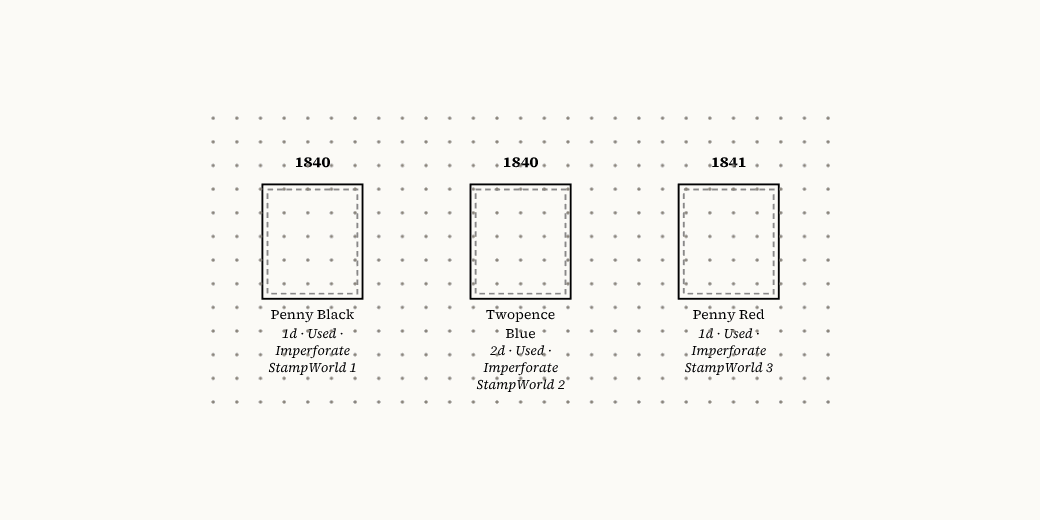
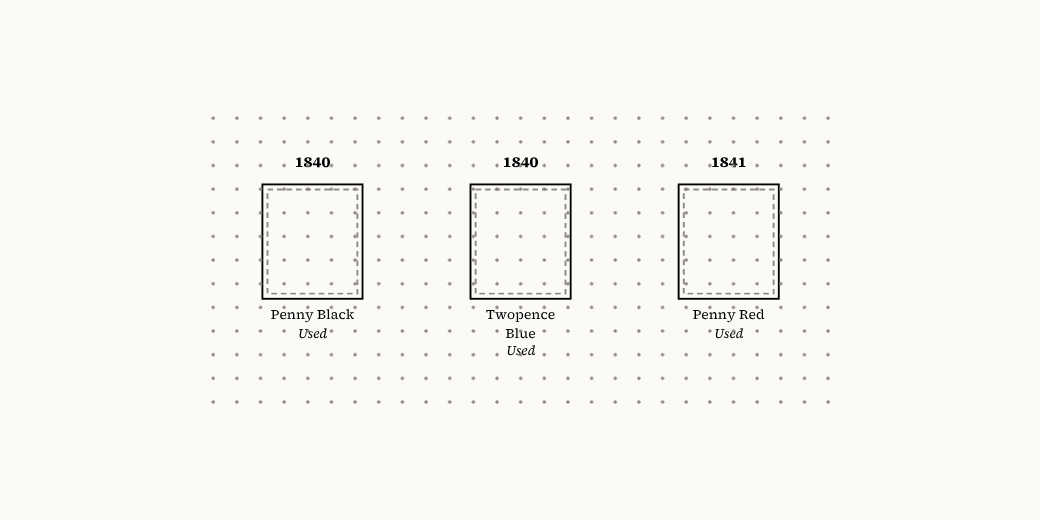
Remove StampWorld's catalogue numbers from shipped content
The first-run sample page, the Single stamp template, the sample DSL file
and the DSL spec example carried StampWorld's numbers (Great Britain 1 to
3), copied without permission. The app now ships no catalogue's numbering.

The sample page's captions give the year, the stamp's name and its
condition only: the stamp shows its value, and an imperforate stamp has
no perforation to note. The Single stamp template uses the "Cat. no."
placeholder like the other templates.

test_no_copied_catalogue_data.py fails if StampWorld text returns to
src/stamp_album, assets, docs or the README. Test strings that used it
are neutral. Tutorial pictures and the README screenshot regenerated.

Claude-Session: https://claude.ai/code/session_01Uyz6paeX6G4EPcZbvq9yCz

Changed region(s): [[0.4615, 0.6462, 0.5538, 0.7692], [0.6462, 0.6154, 0.7385, 0.7385], [0.2462, 0.6154, 0.3385, 0.7385]]

diff --git a/src/stamp_album/web/tutorial.js b/src/stamp_album/web/tutorial.js
@@ -26,7 +26,8 @@ function showTutorial() {
 
 // Auto-load a sample album so the canvas isn't empty: an exhibition-style page with three
 // stamps at their size (3/4 x 7/8 inch, 19 x 22 mm), so their frames show the 1 mm clearance.
-// Numbers and dates are StampWorld's (Great Britain 1 to 3).
+// Captions give only the year, the stamp's name and its condition: the stamp shows its value,
+// and no catalogue's numbering is copied into the app.
 // The screenshot script (tools/screenshots.py) uses the same page.
 var SAMPLE_DSL = [
     'ALBUM_PAGES_BORDER(0.5 0 0 1)',
@@ -40,15 +41,15 @@ var SAMPLE_DSL = [
     'PAGE_TEXT_AT(20.0 18.0 170.0 12.0 "HB" 16 "Great Britain: The First Stamps" "center")',
     'PAGE_TEXT_ROLE("heading")',
     'PAGE_TEXT_AT(20.0 31.0 170.0 8.0 "HN" 10 "Line-engraved issues, 1840 to 1841" "center")',
-    'STAMP_ADD_AT(51.5 55.0 19.0 22.0 "Penny Black" "StampWorld 1" "" "" rectangle "solid" "#000000" 0.5 "#ffffff" 100)',
+    'STAMP_ADD_AT(51.5 55.0 19.0 22.0 "Penny Black" "" "" "" rectangle "solid" "#000000" 0.5 "#ffffff" 100)',
     'STAMP_HEADING("HN" 9 "1840")',
-    'STAMP_DETAILS("1d" "Used" "Imperforate")',
-    'STAMP_ADD_AT(95.5 55.0 19.0 22.0 "Twopence Blue" "StampWorld 2" "" "" rectangle "solid" "#000000" 0.5 "#ffffff" 100)',
+    'STAMP_DETAILS("" "Used" "")',
+    'STAMP_ADD_AT(95.5 55.0 19.0 22.0 "Twopence Blue" "" "" "" rectangle "solid" "#000000" 0.5 "#ffffff" 100)',
     'STAMP_HEADING("HN" 9 "1840")',
-    'STAMP_DETAILS("2d" "Used" "Imperforate")',
-    'STAMP_ADD_AT(139.5 55.0 19.0 22.0 "Penny Red" "StampWorld 3" "" "" rectangle "solid" "#000000" 0.5 "#ffffff" 100)',
+    'STAMP_DETAILS("" "Used" "")',
+    'STAMP_ADD_AT(139.5 55.0 19.0 22.0 "Penny Red" "" "" "" rectangle "solid" "#000000" 0.5 "#ffffff" 100)',
     'STAMP_HEADING("HN" 9 "1841")',
-    'STAMP_DETAILS("1d" "Used" "Imperforate")'
+    'STAMP_DETAILS("" "Used" "")'
 ].join("\n");
 
 function loadSampleAlbum() {

diff --git a/src/stamp_album/templates.py b/src/stamp_album/templates.py
@@ -31,13 +31,13 @@ PAGE_TEXT_AT(20.0 18.0 170.0 10.0 "HB" 16 "Great Britain: The Penny Black" "cent
 PAGE_TEXT_ROLE("heading")
 PAGE_TEXT_AT(20.0 29.0 170.0 7.0 "HN" 10 "The world's first adhesive postage stamp, 1840" "center")
 PAGE_TEXT_AT(20.0 44.0 170.0 12.0 "HN" 9 "Put one important item at the centre of the page, with a short note on why it matters. Replace this text with your own: what the stamp is, when and how it was printed, and what makes this example worth showing." "left")
-STAMP_ADD_AT(95.5 84.0 19.0 22.0 "Penny Black" "StampWorld 1" "" "" rectangle "solid" "#000000" 0.5 "#ffffff" 100)
+STAMP_ADD_AT(95.5 84.0 19.0 22.0 "Penny Black" "Cat. no." "" "" rectangle "solid" "#000000" 0.5 "#ffffff" 100)
 STAMP_HEADING("HN" 9 "1840")
-STAMP_DETAILS("1d" "Used" "")
+STAMP_DETAILS("" "Used" "")
 PAGE_TEXT_AT(20.0 134.0 170.0 11.0 "HN" 9 "Issued on 6 May 1840, printed imperforate in sheets of 240 by Perkins, Bacon & Petch. The check letters in the lower corners give each stamp's position in the sheet." "left")
-STAMP_ADD_AT(35.0 174.0 140.0 85.0 "Penny Black on cover" "StampWorld 1" "" "" rectangle "solid" "#000000" 0.5 "#ffffff" 100)
+STAMP_ADD_AT(35.0 174.0 140.0 85.0 "Penny Black on cover" "Cat. no." "" "" rectangle "solid" "#000000" 0.5 "#ffffff" 100)
 STAMP_HEADING("HN" 9 "Use on cover")
-STAMP_DETAILS("1d" "Posted" "")
+STAMP_DETAILS("" "Posted" "")
 """,
     },
     {

diff --git a/src/tests/test_tutorial.py b/src/tests/test_tutorial.py
@@ -63,7 +63,23 @@ def test_sample_album_shows_stamps_at_catalogue_size(page):
     assert [s["lbl"] for s in stamps] == ["Penny Black", "Twopence Blue", "Penny Red"]
     for s in stamps:
         assert (s["w"], s["h"]) == (pytest.approx(19), pytest.approx(22)), "kept at its size"
-        assert s["frame"] == "thin" and s["cat"]
+        assert s["frame"] == "thin" and not s["cat"], "no catalogue's numbers are shipped"
     assert stamps[0]["x"] == pytest.approx(51.5)
     assert page.locator("#page .caption-warn").count() == 0, "the sample page has no warnings"
     assert page.evaluate("StampAlbum._pageBorder") == "solid"
+
+
+def test_sample_captions_give_year_name_and_condition_only(page):
+    # The stamp shows its value, an imperforate stamp has no perforation to note,
+    # and no catalogue's numbering is copied into the app.
+    caps = page.evaluate(
+        """(()=>{StampAlbum.newAlbum(); StampAlbum.loadSampleAlbum();
+        return StampAlbum.E.filter(e=>e.t==='stamp').map(e=>
+          [...document.querySelectorAll('#page .cel[data-id="'+e.id+'"] .caption')]
+            .map(n=>n.textContent).join(' | '))})()"""
+    )
+    assert caps == [
+        "1840 | Penny Black | Used",
+        "1840 | Twopence\nBlue | Used",
+        "1841 | Penny Red | Used",
+    ], caps

diff --git a/src/tests/test_no_copied_catalogue_data.py b/src/tests/test_no_copied_catalogue_data.py
@@ -1,0 +1,29 @@
+"""No catalogue publisher's or website's numbering is shipped with the app.
+
+The sample album, the starter templates, the sample DSL file and the docs used to
+carry StampWorld's numbers (Great Britain 1 to 3), copied without permission.
+Collectors add their own catalogue's numbers; the app ships none.
+"""
+
+from pathlib import Path
+
+ROOT = Path(__file__).resolve().parents[2]
+SHIPPED = [ROOT / "src" / "stamp_album", ROOT / "assets", ROOT / "docs", ROOT / "README.md"]
+TEXT = {".py", ".js", ".html", ".css", ".json", ".txt", ".md", ".slbum"}
+COPIED = ["stampworld"]
+
+
+def _files():
+    for base in SHIPPED:
+        paths = [base] if base.is_file() else base.rglob("*")
+        for p in paths:
+            if p.is_file() and p.suffix in TEXT and "__pycache__" not in p.parts:
+                yield p
+
+
+def test_no_copied_catalogue_numbering_is_shipped():
+    found = []
+    for p in _files():
+        text = p.read_text(encoding="utf-8", errors="replace").lower()
+        found += [f"{p.relative_to(ROOT)}: {name}" for name in COPIED if name in text]
+    assert not found, found

diff --git a/src/tests/test_parser.py b/src/tests/test_parser.py
@@ -261,7 +261,7 @@ class TestStampCommands:
         source = (
             "PAGE_START\n"
             "ROW_START_FS (HN 6 0.1 6.0)\n"
-            'STAMP_ADD (19.0 22.0 "1d black" "StampWorld 1" "" "")'
+            'STAMP_ADD (19.0 22.0 "1d black" "Cat. no. 1" "" "")'
         )
         album = parser.parse(source)
         row = album.pages[0].rows[0]
@@ -394,15 +394,15 @@ PAGE_TEXT (HN 10 "Introduction text goes here.")
 PAGE_TEXT_CENTRE (HS 12 "Section Heading")
 
 ROW_START_FS (HN 8 0.5 6.0)
-STAMP_ADD (19.0 22.0 "1d black" "StampWorld 1" "" "")
-STAMP_ADD (19.0 22.0 "2d blue" "StampWorld 2" "" "")
+STAMP_ADD (19.0 22.0 "1d black" "Cat. no. 1" "" "")
+STAMP_ADD (19.0 22.0 "2d blue" "Cat. no. 2" "" "")
 
 PAGE_START
 
 PAGE_TEXT_CENTRE (HN 12 "Second Page")
 
 ROW_START_FS (HN 8 0.5 6.0)
-STAMP_ADD (19.0 22.0 "1d red-brown" "StampWorld 3" "" "")
+STAMP_ADD (19.0 22.0 "1d red-brown" "Cat. no. 3" "" "")
 """
         album = parser.parse(source)
 

diff --git a/src/tests/test_caption_fonts.py b/src/tests/test_caption_fonts.py
@@ -36,7 +36,7 @@ SAMPLES = [
     "Penny Black on cover",
     "1d · Used · Imperforate",
     "Plate 1a, check letters A–L, lightly cancelled",
-    "SG 2 · StampWorld 1 · Michel 1",
+    "Cat. no. 2 · Ref. 1 · No. 14a",
     "Office fluff: “quoted” — dashes, ½ and ¾, fi fl ffi",
     "Ελλάς · Россия · Österreich · Ærø",
     "日本 ₹ 🙂",

diff --git a/src/tests/test_caption_font_ui.py b/src/tests/test_caption_font_ui.py
@@ -15,7 +15,7 @@ TEXTS = {
     "denom": "1d",
     "cond": "Used",
     "perf": "Imperforate",
-    "cat": "StampWorld 1",
+    "cat": "Cat. no. 1",
 }
 
 

diff --git a/CHANGELOG.md b/CHANGELOG.md
@@ -15,6 +15,7 @@ All notable changes to this project are documented here. The format follows [Kee
   - Not yet translatable: the starter templates, the sample album, the tutorial pictures and the calibration page (page content, to be translated with each language's catalogue numbering), key names in Keyboard shortcuts, and the server's error messages
 
 ### Changed
+- **No copied catalogue numbers**: the first-run sample page, the Single stamp template, `assets/templates/sample_album.txt` and the example in `docs/DSL_SPEC.md` no longer carry StampWorld's numbers, which had been copied without permission. The app ships no catalogue's numbering; collectors add their own. The sample page's captions now give the year, the stamp's name and its condition only ("1840 / Penny Black / Used"): the stamp shows its value, and an imperforate stamp has no perforation to note. The Single stamp template shows the "Cat. no." placeholder like the other templates. A test fails if StampWorld text returns to the app, its assets or its docs. Tutorial pictures and the README screenshot regenerated
 - **The page is bigger on a computer**: the editor now opens at **Fit whole page** on a computer, so all of the page is on screen, and the fits may enlarge the page up to 200% (they used to stop at 100%, leaving A4 525 px wide on any screen). A4 shows at about 109% on a 14-inch MacBook, 127% on a 16-inch and 171% on a 2560 × 1440 display. Phones and windows narrower than 700 px still open at Fit width. A zoom chosen in the View menu is still remembered on the device and wins over the default. Ctrl/⌘ + 0 and the status bar's percentage go back to the default fit. Only the drawing is scaled: positions, files and exports are unchanged
 - **A quieter grid**: at rest the snap grid is a faint dot at each snap point, so the stamps and captions no longer compete with lines across the whole page. The lines come back while an item is dragged or resized, or a palette item is dragged over the page. Dots and lines keep their size on screen at any zoom, and the grid now lies on the snap points (multiples of 5 or 10 mm from the page's top left; the lines used to be half a step off). Snap Off still hides it, and it is never printed or exported
 - On a phone, longer words no longer push the Export button off the screen: the app name gives way first. The status bar keeps to one line, shortening the selection with "…"; on a phone it leaves out the element count and the alignment readout, which had already pushed "Unsaved" past the edge of the screen in English

diff --git a/docs/DSL_SPEC.md b/docs/DSL_SPEC.md
@@ -264,8 +264,8 @@ PAGE_TEXT (HN 10 "Uniform Penny Postage began on 10 January 1840. "\
                  "Prepaid adhesive stamps followed in May.")
 
 ROW_START_FS (HN 8 0.5 8.0)
-STAMP_ADD (19.0 22.0 "1d \n black" "StampWorld 1" "" "")
-STAMP_ADD (19.0 22.0 "2d \n blue" "StampWorld 2" "" "")
+STAMP_ADD (19.0 22.0 "1d \n black" "Cat. no." "" "")
+STAMP_ADD (19.0 22.0 "2d \n blue" "Cat. no." "" "")
 ```
 
 A longer version is in `assets/templates/sample_album.txt`.
